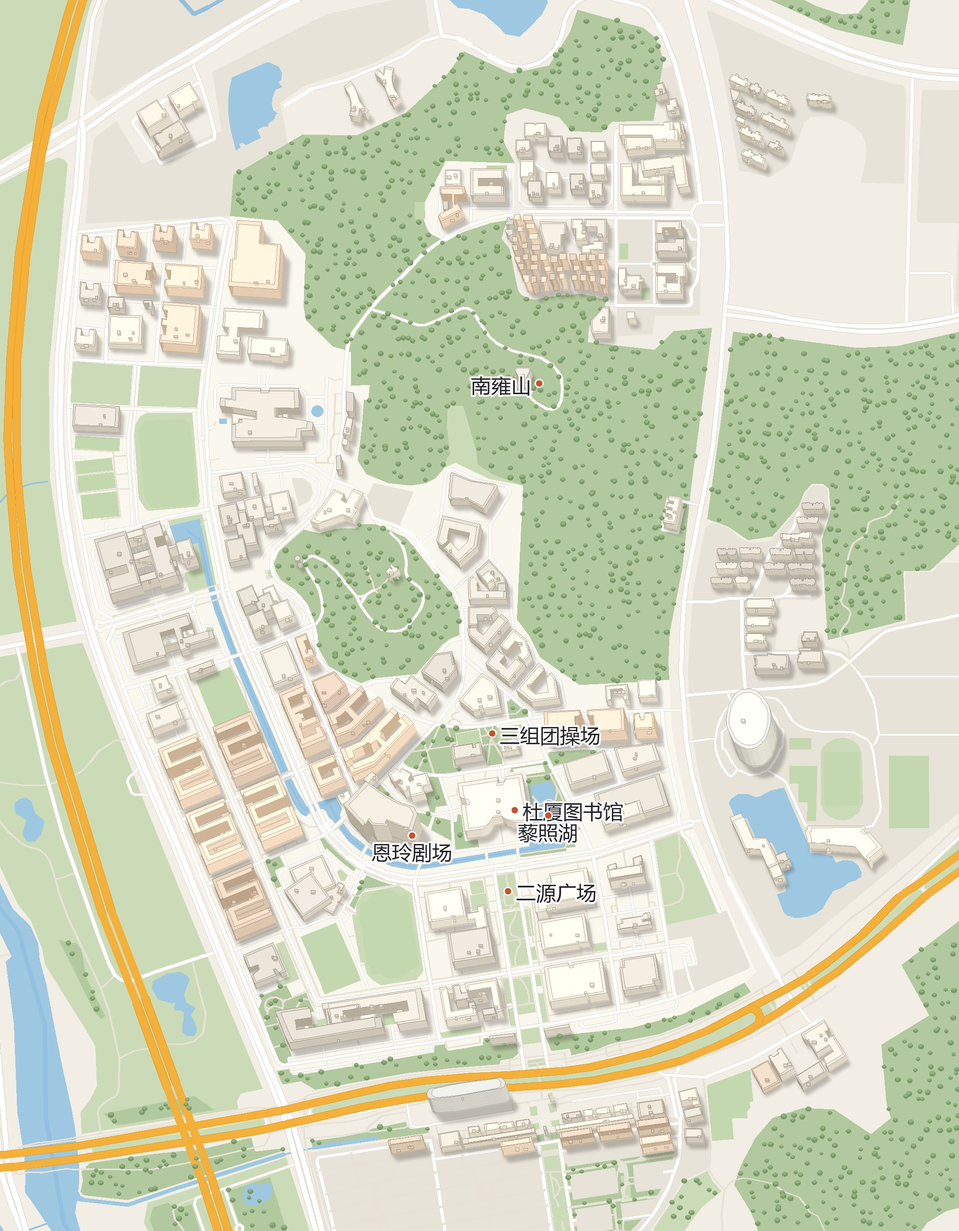
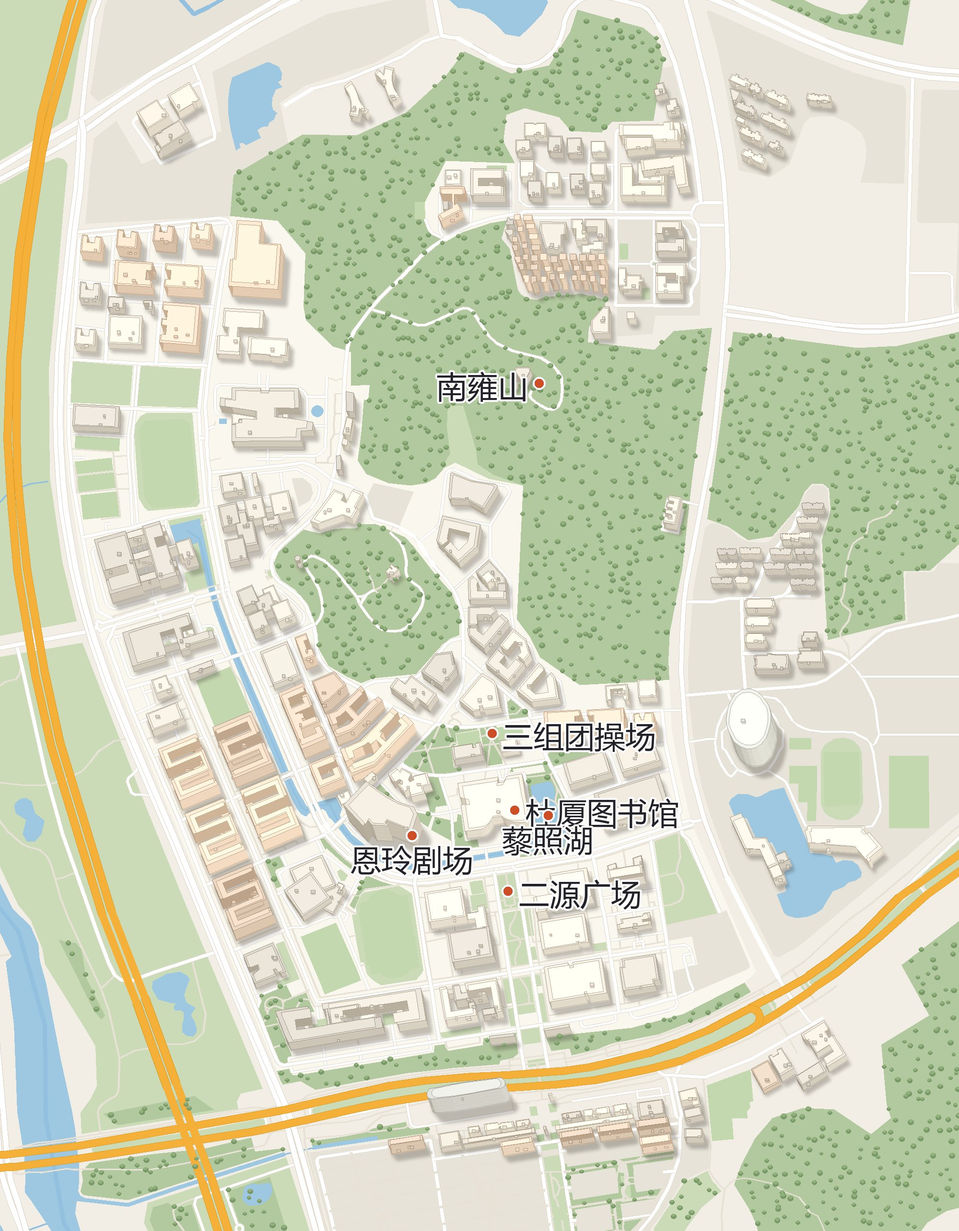
fix(basemap): 标志物字号 42→64（线上读不出来）+ 长名字用短名显示
上线后截图验收发现：42 px 的字在页面里只剩约 12 px，**根本读不出来**，
「帮同学们找准位置」这个目的压根没达到。

- 字号 42 → 64、圆点半径 9→13、描边 3→4、文字间距 16→22
- ⚠ 字号**不能按"底图 1:1"来定**：底图 2000 px 宽，在页面里被缩到约 940 px
  （缩放 ≈0.47）⇒ 42 px 最后只剩约 12 px。必须**按页面显示尺寸反推**；
  所以生成后要缩到 940 再裁图看一眼（模拟线上），光看 1:1 的底图会以为够大。
- 「南京大学图书馆（鼓楼）」在页面尺寸下占掉约 40% 宽度 ⇒ 加 `LABEL_ALIAS` 短名表，
  图上显示"图书馆"。3 条映射都进了回归测试（key 必须真实存在于 landmarks）。

⚠ 另记一次**自己造成的险情**：用 PowerShell `Set-Content -Encoding UTF8` 改
`site_common.py`，把文件里的中文全写坏了（`SITE = "澶╁厜..."`）。
原因：`Get-Content` 按 GBK 读、`Set-Content` 按 UTF8 写，中文必然毁。
已 `git checkout` 恢复，之后一律用编辑工具改含中文的文件。
⇒ **改中文文件不要走 PowerShell 的读写管道**。

Changed region(s): [[0.496, 0.561, 0.713, 0.748], [0.434, 0.2805, 0.558, 0.3428], [0.372, 0.6545, 0.496, 0.7168]]

diff --git a/relief_basemap.py b/relief_basemap.py
@@ -157,10 +157,20 @@ LABEL_LANDMARKS: dict[str, list[tuple[str, str]]] = {
     "suzhou": [("图书馆", "right"), ("北大楼", "top"), ("环形食堂", "right"),
                ("苏式园林", "right"), ("庄里山", "left"), ("运动场（西区）", "right")],
 }
+# 图上显示的**短名**：`landmarks` 里的全名太长会吃掉半张图
+# （"南京大学图书馆（鼓楼）"在页面尺寸下能占掉 40% 的宽度），而地图上只要有"图书馆"就够认。
+LABEL_ALIAS: dict[str, str] = {
+    "南京大学图书馆（鼓楼）": "图书馆",
+    "仙林校区第二体育场": "第二体育场",
+    "运动场（西区）": "运动场",
+}
 LABEL_DOT = (206, 78, 40)           # 圆点（橙红，与地图图例同色系）
 LABEL_TEXT = (34, 34, 40)           # 文字颜色
 LABEL_STROKE = (255, 255, 255)      # 白描边：压在深色屋顶/绿树上也读得出
-LABEL_FONT_PX = 42                  # 字号（底图宽 2000 时的像素）
+# 字号（底图宽 2000 时的像素）。⚠ 别按"底图 1:1"来定：底图在页面里会被缩小到
+# ≈940 px（缩放 ≈0.47），42 px 的字最后只剩 ~12 px，**线上根本读不出来**
+# （第一版就是 42，截图放大一看全是糊的）。64 px ⇒ 线上约 30 px，手机上也还能认。
+LABEL_FONT_PX = 64
 
 
 def _tint_of(props: dict) -> tuple[int, int, int]:
@@ -263,11 +273,11 @@ def _draw_landmarks(d, proj, campus) -> int:
             continue
         # ⚠ `landmarks` 存的是 **(lat, lon)**，而 `proj.pt()` 要 (lon, lat) —— 别搞反
         x, y = proj.pt(float(ll[1]), float(ll[0]))
-        r = 9
+        r = 13
         d.ellipse([x - r, y - r, x + r, y + r], fill=LABEL_DOT,
-                  outline=LABEL_STROKE, width=3)
+                  outline=LABEL_STROKE, width=4)
         # 文字按指定方向错开，避免相邻地标的标签叠在一起
-        pad, ymid = 16, -LABEL_FONT_PX * 0.62
+        pad, ymid = 22, -LABEL_FONT_PX * 0.60
         if side == "left":
             tx, ty, anc = x - pad, y + ymid, "ra"
         elif side == "top":
@@ -276,8 +286,8 @@ def _draw_landmarks(d, proj, campus) -> int:
             tx, ty, anc = x, y + pad, "mt"
         else:
             tx, ty, anc = x + pad, y + ymid, "la"
-        d.text((tx, ty), name, font=f, fill=LABEL_TEXT, anchor=anc,
-               stroke_width=4, stroke_fill=LABEL_STROKE)
+        d.text((tx, ty), LABEL_ALIAS.get(name, name), font=f, fill=LABEL_TEXT,
+               anchor=anc, stroke_width=4, stroke_fill=LABEL_STROKE)
         n += 1
     return n
 
@@ -804,7 +814,7 @@ def _style_tag() -> str:
     raw = (f"{VIEW}|{LIGHT}|{SHADOW}|{SHADOW_ALPHA}|{SHADOW_BLUR}|{EXAG}|"
            f"{WALL_TOP}|{WALL_SIDE}|{ROOF}|{sorted(WALL_SIDE_BY_CAMPUS.items())}|"
            f"{SKIP_OUTSOUTH_H}|{LABEL_DOT}|{LABEL_TEXT}|{LABEL_FONT_PX}|"
-           f"{sorted(LABEL_LANDMARKS.items())}|"
+           f"{sorted(LABEL_LANDMARKS.items())}|{sorted(LABEL_ALIAS.items())}|"
            f"{_trees_fingerprint()}")
     return hashlib.md5(raw.encode("utf-8")).hexdigest()[:10]
 

diff --git a/tools/test_static_basemap.py b/tools/test_static_basemap.py
@@ -362,6 +362,10 @@ try:
           str({k: len(v) for k, v in _rb2.LABEL_LANDMARKS.items()}))
     check("蓝色虚线已移除（用户改主意，换成标志物）",
           not hasattr(_rb2, "DRAW_CAMPUS_BOUNDARY"))
+    _alias_bad = [k for k in _rb2.LABEL_ALIAS
+                  if not any(k in c.landmarks for c in _CS.values())]
+    check("短名映射的 key 都真实存在于某个校区的 landmarks", not _alias_bad,
+          f"{len(_rb2.LABEL_ALIAS)} 条；无效={_alias_bad}")
 except Exception as exc:
     check("校园虚线/排除规则", False, f"{type(exc).__name__}: {exc}")
 

diff --git a/glb_relief.py b/glb_relief.py
@@ -589,7 +589,7 @@ def _style_tag():
     try:
         import relief_basemap as _rb
         btag = (f"{_rb.LABEL_DOT}|{_rb.LABEL_TEXT}|{_rb.LABEL_FONT_PX}"
-                f"|{sorted(_rb.LABEL_LANDMARKS.items())}")
+                f"|{sorted(_rb.LABEL_LANDMARKS.items())}|{sorted(_rb.LABEL_ALIAS.items())}")
     except Exception:
         btag = "none"
     raw = (f"{VIEW_H}|{LIGHT_H.tolist()}|{WALL_MIN}|{WALL_MAX}|{ROOF_F}|{EXAG}"

diff --git a/site_common.py b/site_common.py
@@ -26,7 +26,7 @@ ADMIN_PAGE = "管理员"
 
 # 构建版本：显示在侧边栏，用来确认线上部署的是哪一版。
 # 改代码时**一起改这个**，push 后刷新线上即可确认是否真的更新了。
-BUILD = "2026-10-04e"
+BUILD = "2026-10-04f"
 
 # 页面文件（Streamlit 按文件路由：根目录 app.py = "/"，pages/ 下的各占一个路径）
 SUBMIT_FILE = "app.py"
